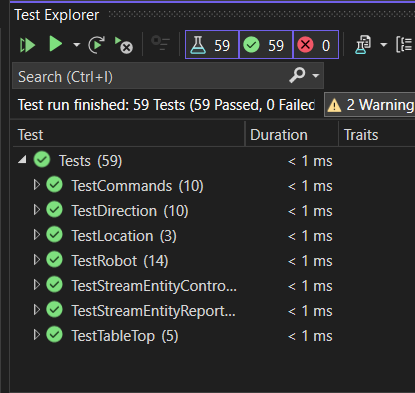
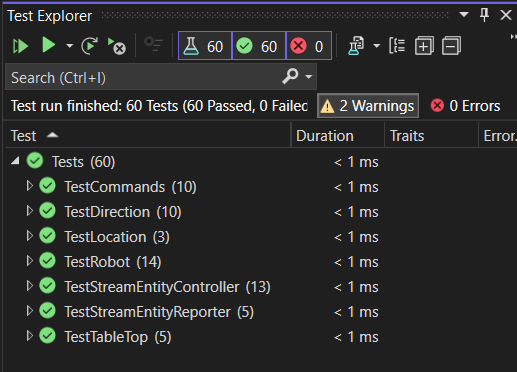
add support for lowercase commands

diff --git a/Tests/TestStreamEntityController.cpp b/Tests/TestStreamEntityController.cpp
@@ -183,6 +183,23 @@ namespace TestStreamEntityController
 			Assert::AreEqual(std::string(""), actual->str());
 		}
 
+		TEST_METHOD(TestLowercase)
+		{
+			std::shared_ptr<Robot> r(new Robot());
+			std::shared_ptr<TableTop> table(new TableTop(5, 5));
+			std::shared_ptr<std::stringstream> actual(new std::stringstream());
+			std::shared_ptr<StreamEntityReporter> reporter(new StreamEntityReporter(r, actual));
+			std::shared_ptr<std::istringstream> input(new std::istringstream("place 1,1,North\n"));
+			std::unique_ptr<StreamEntityController> controller(new StreamEntityController(r, reporter, table, input));
+			std::shared_ptr<Command> cmd = controller->nextCommand();
+			if (cmd != nullptr)
+			{
+				cmd->action();
+				reporter->report();
+			}
+			Assert::AreEqual(std::string("1,1,NORTH\n"), actual->str());
+		}
+
 		/*
 		 * PLACE 0,0,NORTH
 		 * MOVE

diff --git a/ToyRobot/StreamEntityController.cpp b/ToyRobot/StreamEntityController.cpp
@@ -1,5 +1,6 @@
 #include "StreamEntityController.h"
 #include <string>
+#include <algorithm>
 #include "MoveCommand.h"
 #include "LeftCommand.h"
 #include "RightCommand.h"
@@ -94,6 +95,9 @@ std::shared_ptr<Command> StreamEntityController::nextCommand()
 	{
 		std::string line;
 		std::getline(*mStream, line);
+		//convert all text to upper case
+		std::transform(line.begin(), line.end(), line.begin(), toupper);
+
 		// ignore the command (return nullptr) if any of the text is unexpected
 		// if we get what we expect, we process, even if there are extra characters on the line
 		if (line.find(COMMAND_STRING_MOVE) != std::string::npos)
